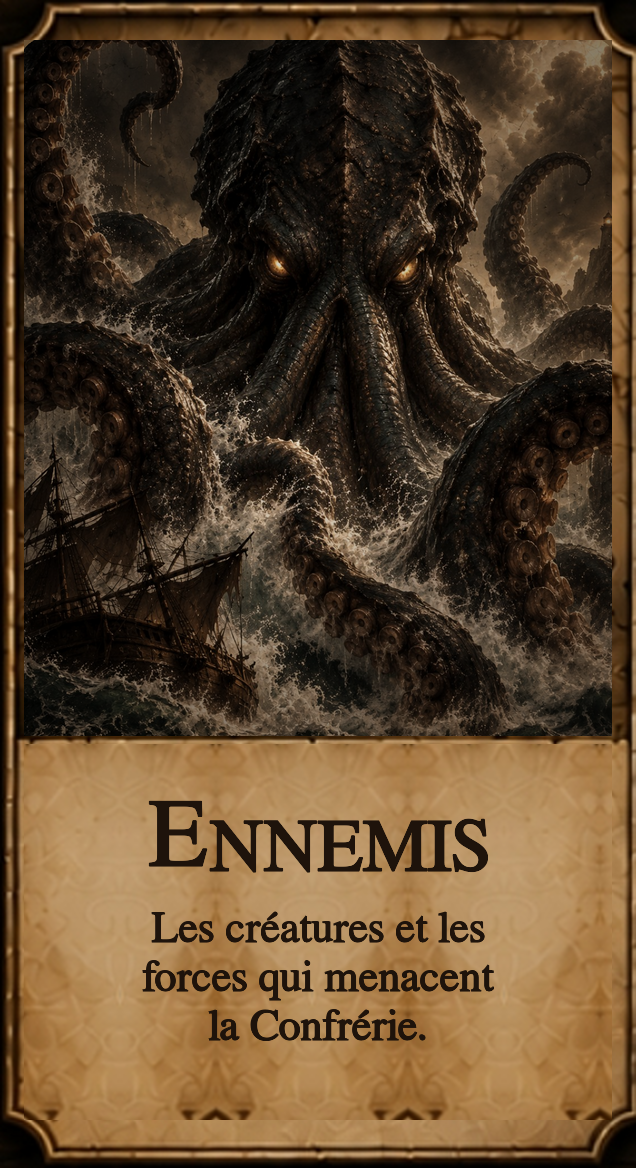
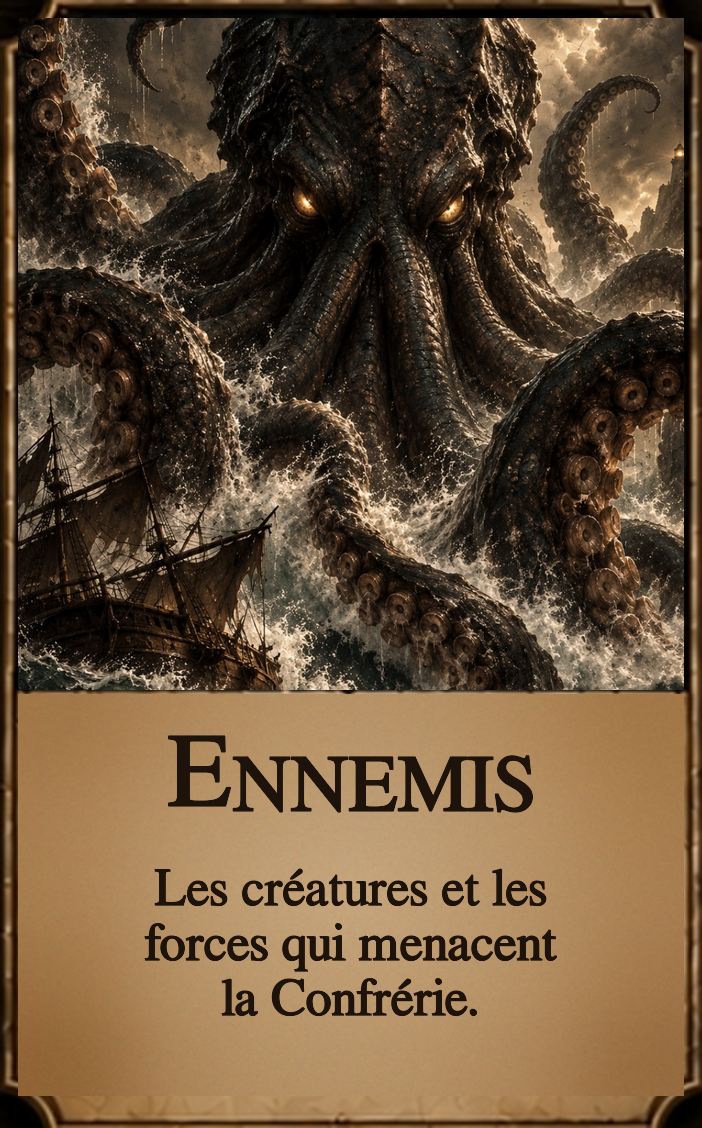
fix(monde): carte Ennemis à la taille des cartes de la 2e rangée
- carte refaite à partir de la carte Reliques (même hauteur que
  Reliques et Légendes, cadre du texte au même niveau)
- fond du texte propre, sans taches
- emplacements des cartes recalés sur l'image Univers complète

Claude-Session: https://claude.ai/code/session_01LK9bQxRaFjmebgi5wGVUS1

diff --git a/frontend/app/(tabs)/monde.tsx b/frontend/app/(tabs)/monde.tsx
@@ -14,13 +14,14 @@ const IMG_ASPECT = 1024 / 2048;
 // Emplacements des six cartes dans l'image Univers (fractions de la largeur
 // et de la hauteur de l'image), mesurés sur l'image affichée.
 const COLS = [
-  { left: 0.044, right: 0.337 },
-  { left: 0.357, right: 0.64 },
-  { left: 0.657, right: 0.956 },
+  { left: 0.044, right: 0.338 },
+  { left: 0.358, right: 0.64 },
+  { left: 0.66, right: 0.961 },
 ];
+// La 2e rangée de cartes est moins haute que la 1re
 const ROWS = [
-  { top: 0.337, bottom: 0.606 },
-  { top: 0.613, bottom: 0.882 },
+  { top: 0.336, bottom: 0.602 },
+  { top: 0.615, bottom: 0.857 },
 ];
 
 type Card = {
